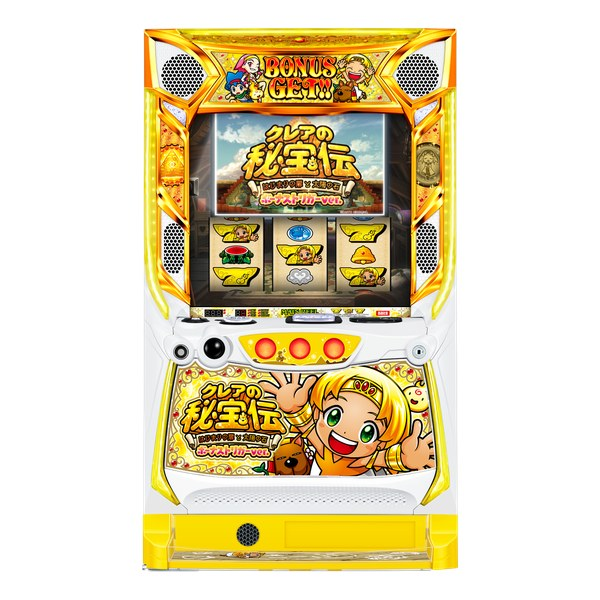
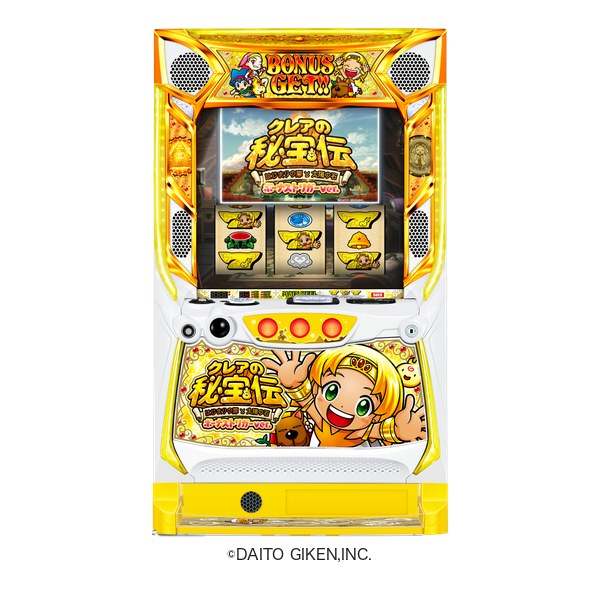
リンクカード画像の筐体の下に権利表記を入れる（スミ一色・白フチなし）

diff --git a/scripts/make-cards.py b/scripts/make-cards.py
@@ -1,5 +1,5 @@
 """X などのリンクカード用の正方形画像を作る（2026-11-16〜）。
-・筐体画像のある機種：public/images/card/<slug>.jpg（600×600・白地の中央に筐体を縮小して置くだけ。切り抜き・加工はしない）
+・筐体画像のある機種：public/images/card/<slug>.jpg（600×600・白地の中央に筐体を縮小して置くだけ。切り抜き・加工はしない。下の余白に権利表記＝スミ一色）
 ・筐体画像のない機種：public/images/card/app-icon.png（スロログのアプリアイコン 512×512）
 元の筐体画像は縦長・透過・1MB 超で、X のカードに出ないことがあった（ワンダーヴィーナスでグレーのまま）。
 実行：python3 scripts/make-cards.py（筐体画像を足したら回す。[slug].astro は card/<slug>.jpg があればそれを使う）
@@ -7,7 +7,7 @@
 import re
 from pathlib import Path
 
-from PIL import Image
+from PIL import Image, ImageDraw, ImageFont
 
 ROOT = Path(__file__).resolve().parent.parent
 PUB = ROOT / 'public'
@@ -15,6 +15,8 @@ OUT = PUB / 'images' / 'card'
 OUT.mkdir(parents=True, exist_ok=True)
 ICON = Path('/Users/calkee/Desktop/Projects/Kinana/app/slolog/assets/icon/icon_full@1x.png')
 S, PAD = 600, 28
+FONT = '/System/Library/Fonts/ヒラギノ角ゴシック W4.ttc'
+INK = (34, 30, 28)   # 権利表記はスミ一色（白フチなし）
 
 if ICON.exists():
     Image.open(ICON).convert('RGB').resize((512, 512), Image.LANCZOS).save(OUT / 'app-icon.png', optimize=True)
@@ -24,12 +26,32 @@ for md in sorted((ROOT / 'src' / 'content' / 'machines').glob('*.md')):
     m = re.search(r'^image:\s*\n\s+src:\s*(\S+)', head, re.M)
     if not m:
         continue
+    block = re.search(r'^image:\s*\n((?:[ \t]+.*\n?)+)', head, re.M).group(1)
+    cm = re.search(r'^\s+credit:\s*(.+)$', block, re.M)
+    credit = cm.group(1).strip().strip("'\"") if cm else ''
     src = PUB / m.group(1).strip("'\"")
     im = Image.open(src).convert('RGBA')
-    k = min((S - PAD * 2) / im.width, (S - PAD * 2) / im.height)
+    # 権利表記（筐体の下の余白に入れる。長いものは全角スペースで折り返す）
+    lines, size = [], 15
+    if credit:
+        f = ImageFont.truetype(FONT, size)
+        for part in credit.split('\u3000'):
+            if lines and f.getlength(lines[-1] + '\u3000' + part) <= S - 40:
+                lines[-1] += '\u3000' + part
+            else:
+                lines.append(part)
+        while any(f.getlength(l) > S - 40 for l in lines) and size > 10:
+            size -= 1; f = ImageFont.truetype(FONT, size)
+    band = (len(lines) * (size + 6) + 14) if lines else 0
+    k = min((S - PAD * 2) / im.width, (S - PAD * 2 - band) / im.height)
     im = im.resize((max(1, round(im.width * k)), max(1, round(im.height * k))), Image.LANCZOS)
     card = Image.new('RGBA', (S, S), (255, 255, 255, 255))
-    card.alpha_composite(im, ((S - im.width) // 2, (S - im.height) // 2))
+    card.alpha_composite(im, ((S - im.width) // 2, PAD + (S - PAD * 2 - band - im.height) // 2))
+    if lines:
+        d = ImageDraw.Draw(card)
+        y = S - PAD - band + 10
+        for l in lines:
+            d.text((S / 2, y), l, font=f, fill=INK + (255,), anchor='mt'); y += size + 6
     out = OUT / f'{md.stem}.jpg'
     card.convert('RGB').save(out, quality=88, optimize=True, progressive=True)
     made.append((md.stem, out.stat().st_size // 1024))
